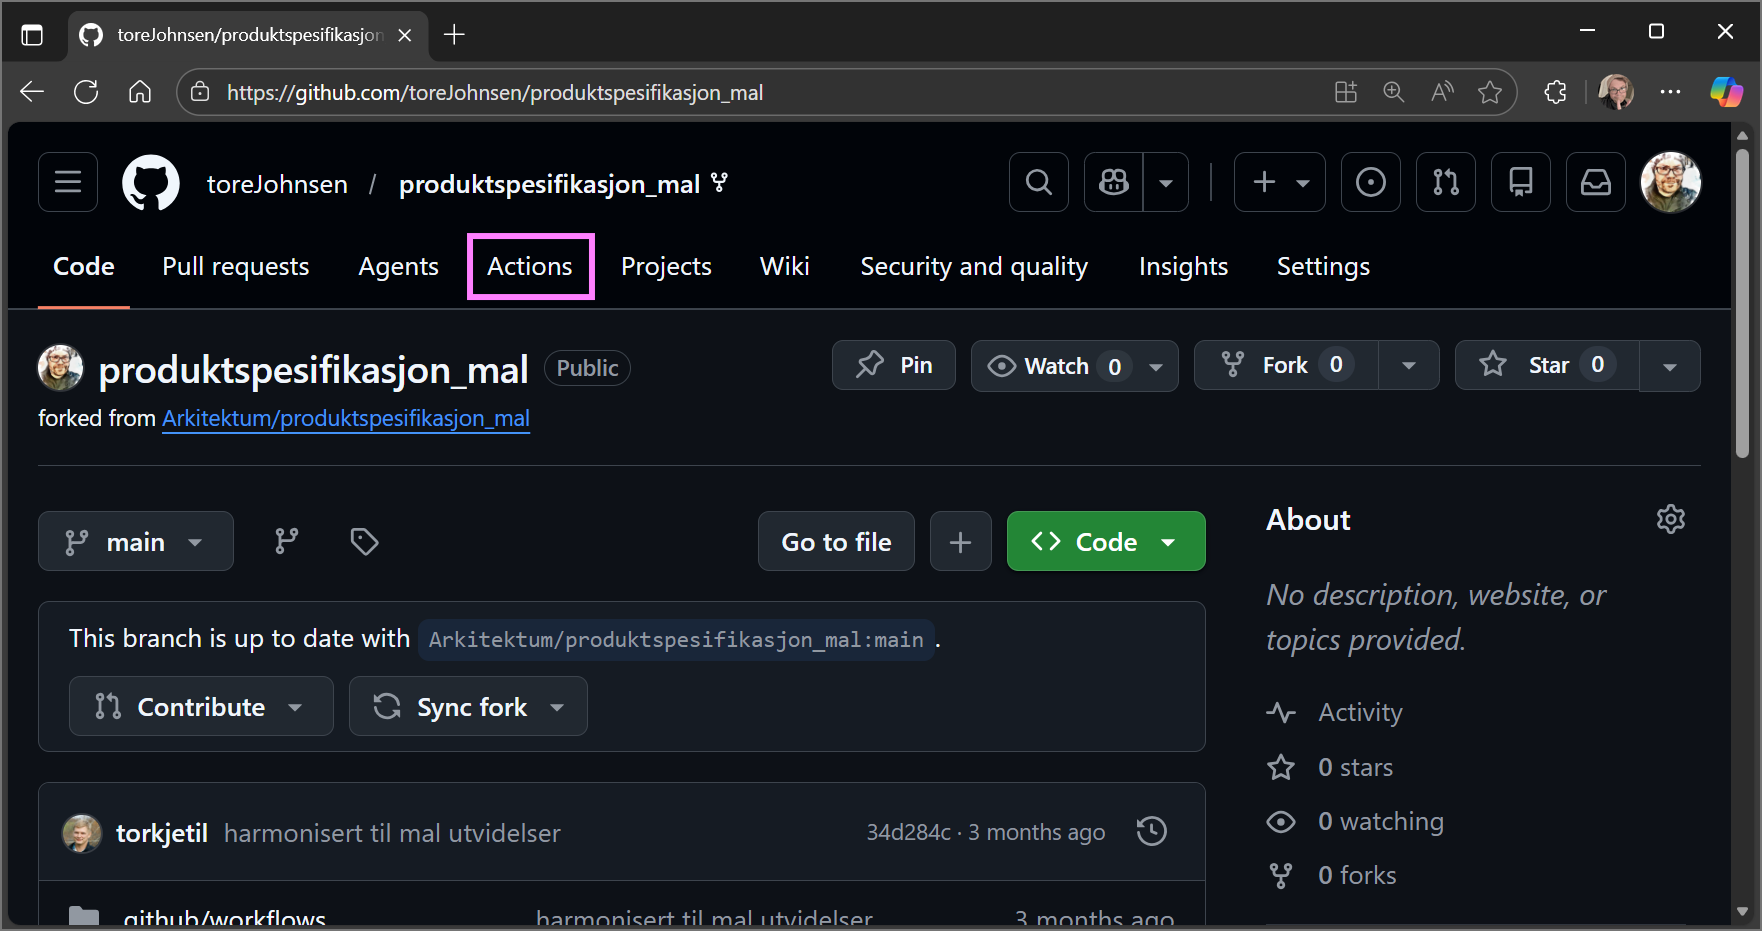
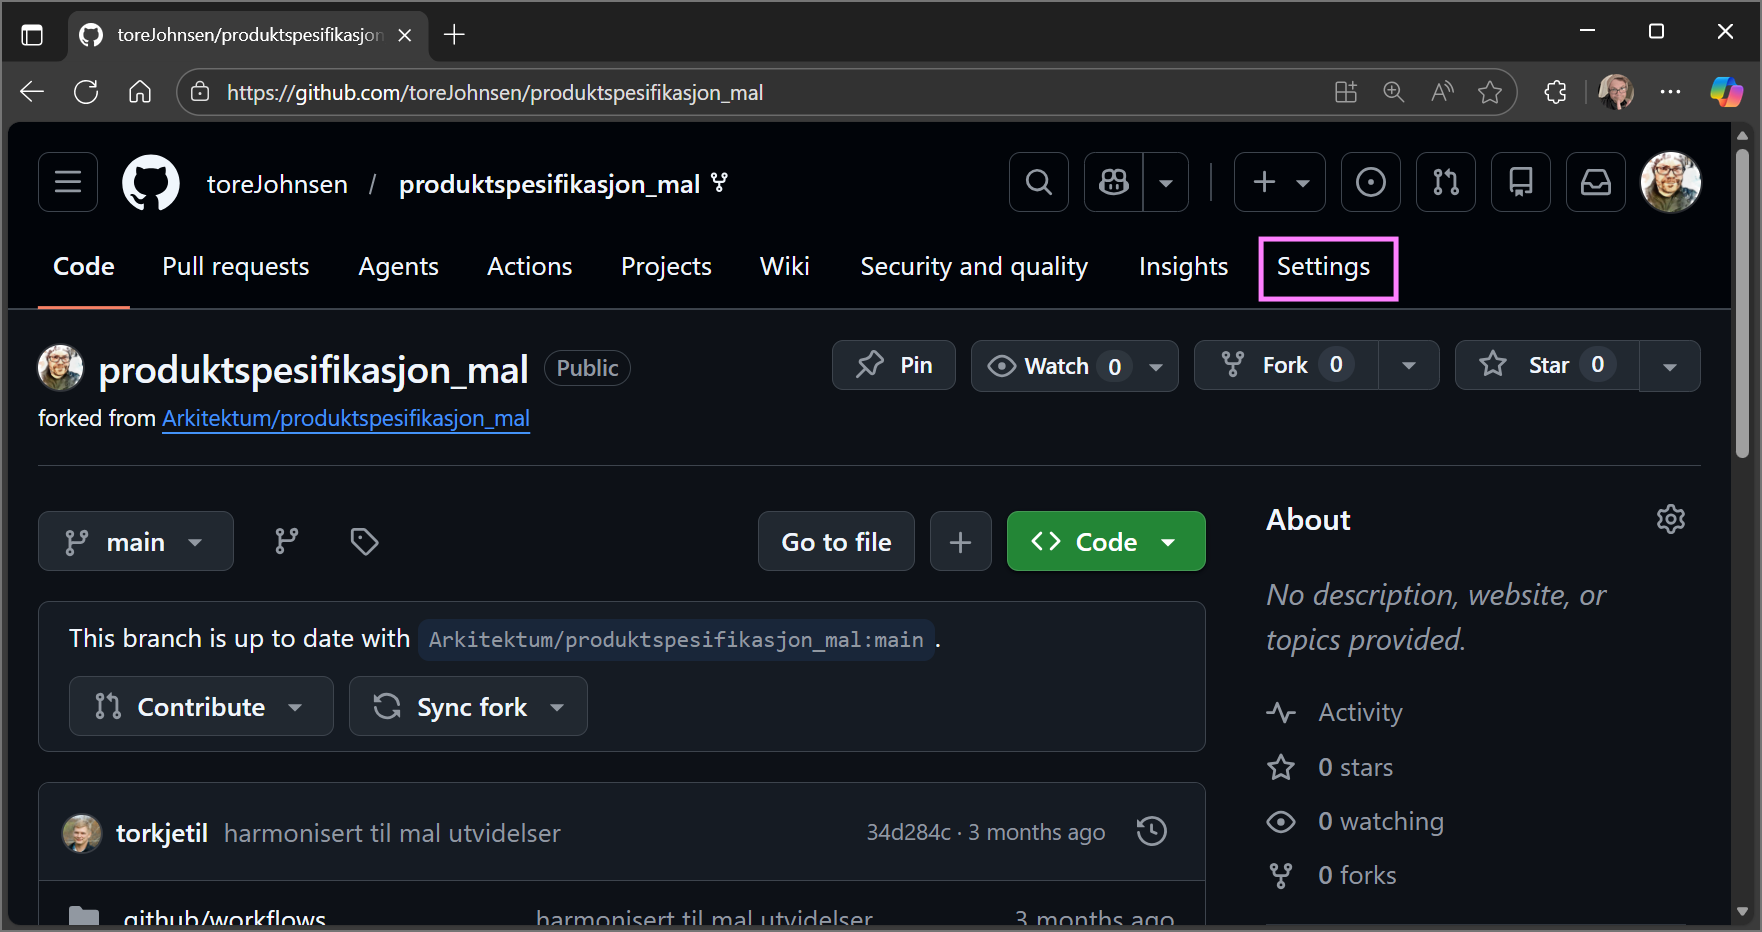
added new file settings.png

diff --git a/readme.md b/readme.md
@@ -11,12 +11,19 @@ Denne veiledningen viser hvordan du:
 ## 1️⃣ Lage en fork av repoet
 
 1. Gå til repoet:  
-   https://github.com/Arkitektum/produktspesifikasjon_malkan  
+   https://github.com/Arkitektum/produktspesifikasjon_mal
 2. Klikk **Fork** (øverst til høyre)
 3. Velg din konto eller organisasjon
 4. Vent til kopien er opprettet
 
 ✅ Du har nå din egen fork av repoet
+
+<details>
+  <summary>Se skjermbilder</summary>
+  
+![Lage en ny fork](/veiledning/fork1.png)
+![Lage en ny fork](/veiledning/fork2.png)
+</details>
 
 ---
 